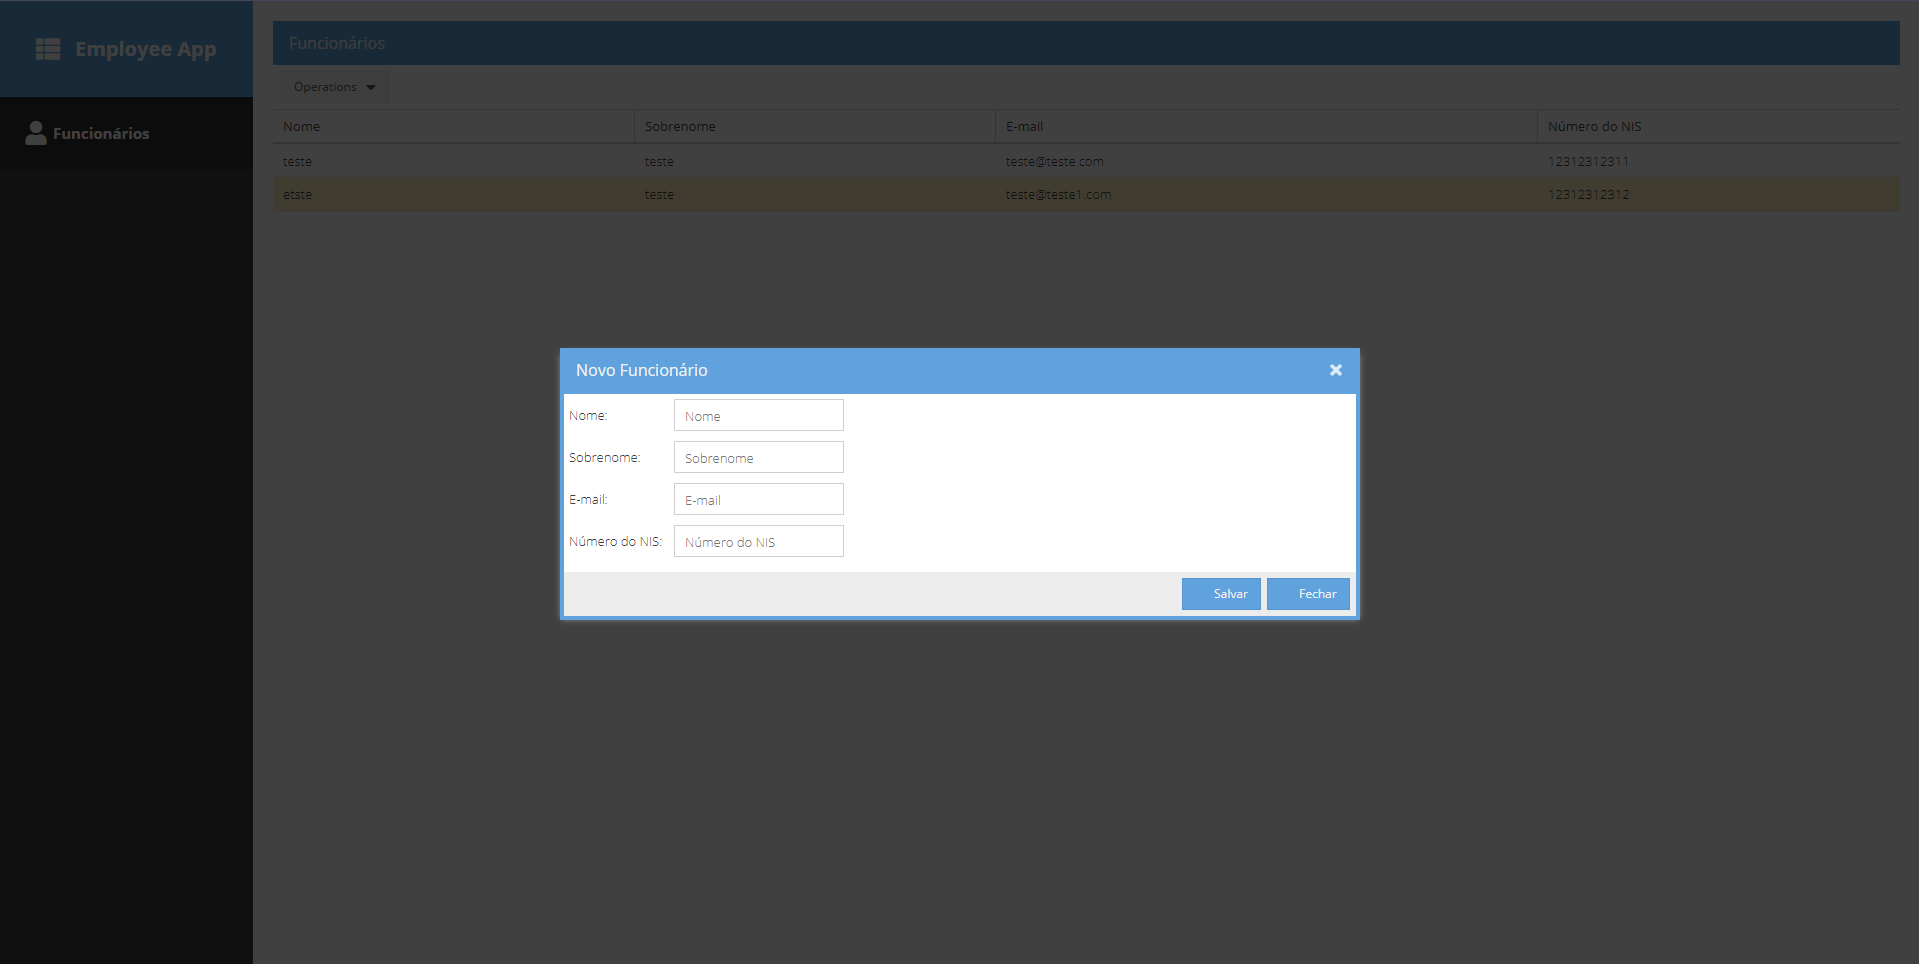
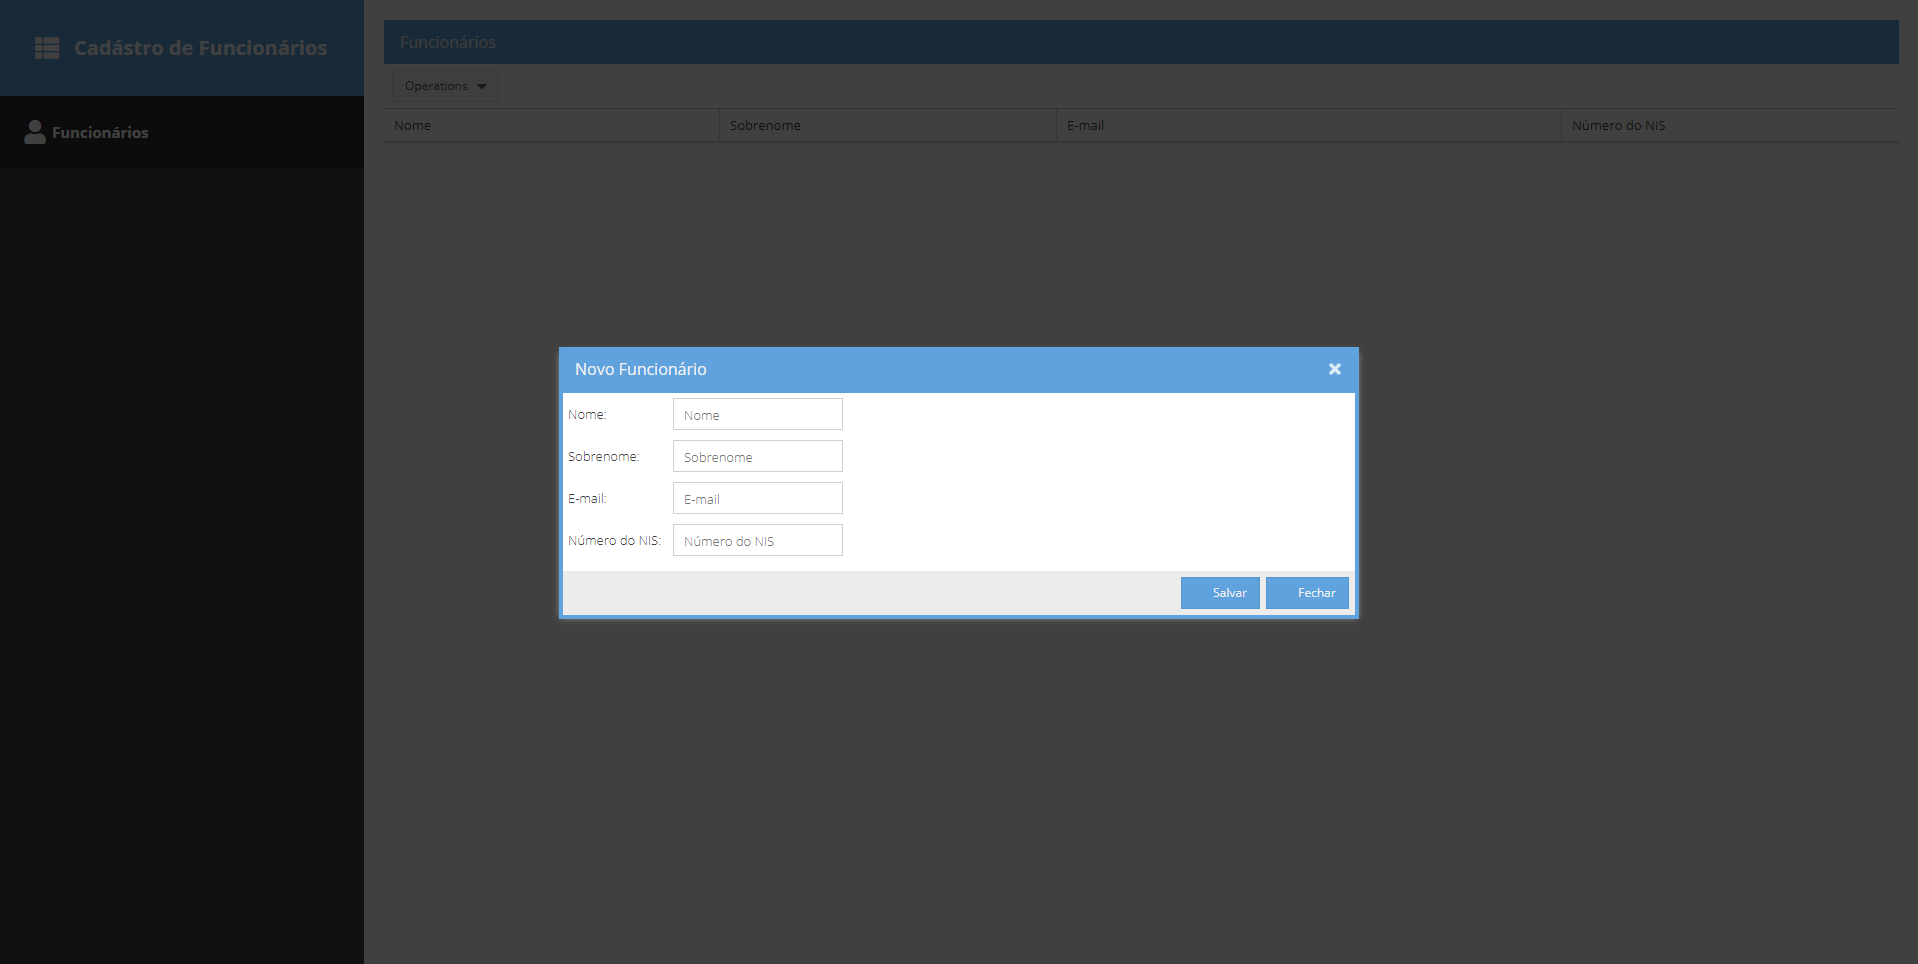
Updated app texts

diff --git a/Employee-front/app/view/main/MainModel.js b/Employee-front/app/view/main/MainModel.js
@@ -7,7 +7,7 @@ Ext.define('EmployeeApp.view.main.MainModel', {
     alias: 'viewmodel.main',
 
     data: {
-        name: 'Employee App',
+        name: 'Cadástro de Funcionários',
 
         loremIpsum: 'Lorem ipsum dolor sit amet, consectetur adipisicing elit, sed do eiusmod tempor incididunt ut labore et dolore magna aliqua. Ut enim ad minim veniam, quis nostrud exercitation ullamco laboris nisi ut aliquip ex ea commodo consequat. Duis aute irure dolor in reprehenderit in voluptate velit esse cillum dolore eu fugiat nulla pariatur. Excepteur sint occaecat cupidatat non proident, sunt in culpa qui officia deserunt mollit anim id est laborum.'
     }

diff --git a/Employee-front/index.html b/Employee-front/index.html
@@ -5,7 +5,7 @@
     <meta charset="UTF-8">
     <meta name="viewport" content="width=device-width, initial-scale=1, maximum-scale=10, user-scalable=yes">
 
-    <title>Employee App</title>
+    <title>Cadástro de Funcionários</title>
 
     <!-- The line below must be kept intact for Sencha Cmd to build your application -->
     <script id="microloader" data-app="e76d2282-fc1e-48e1-9885-374408473d33" type="text/javascript" src="bootstrap.js"></script>

diff --git a/Employee-front/app/view/employee/EmployeeList.js b/Employee-front/app/view/employee/EmployeeList.js
@@ -14,7 +14,7 @@ Ext.define('EmployeeApp.view.employee.EmployeeList', {
         xtype: 'toolbar',
         items: [
             {
-                text: 'Operations',
+                text: 'Operações',
                 menu: [
                     {
                         text: 'Adicionar Funcionário',

diff --git a/Employee-front/app/Application.js b/Employee-front/app/Application.js
@@ -6,7 +6,7 @@
 Ext.define('EmployeeApp.Application', {
     extend: 'Ext.app.Application',
 
-    name: 'Employee App',
+    name: 'Cadástro de Funcionários',
 
     quickTips: false,
     platformConfig: {
